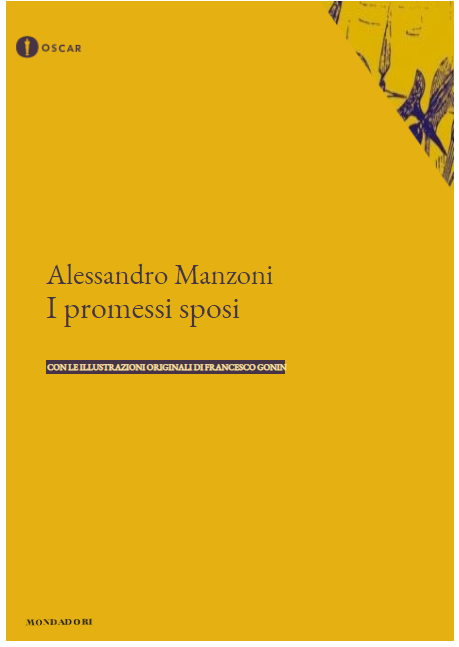
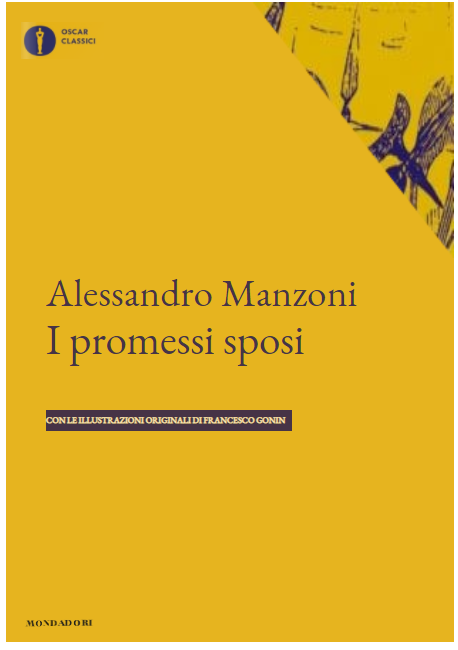
fv

diff --git a/index.html b/index.html
@@ -314,80 +314,86 @@ and (-webkit-min-device-pixel-ratio: 2) { .cover-img {width:90%;
 					<code>
 
 
- {font-family: OpenSans-Regular;
+@font-face 
+{font-family: OpenSans-Regular;
 src: url('font/OpenSans-Regular.ttf') format('truetype');}
-						
+										
 @font-face 
 {font-family: OpenSans-SemiBold;
 src: url('font/OpenSans-SemiBold.ttf') format('truetype');}
-						
-						
+										
+										
+										
 .decoration{position: absolute; 
-           content: url(img/feltrinelli-decoration.png);
-           width: auto;
-           height: 4.25%;
-           margin-top:-3.2%;
+            content: url(img/feltrinelli-decoration.png);
+            width: auto;
+            height: 4.25%;
+            margin-top:-3.2%;
            }        
-						
+									
 .author{font-family: OpenSans-Regular;
         font-size: 3.1em;
         text-transform: uppercase;
        }
-						
+										
 .title{font-family: OpenSans-SemiBold;
        font-size: 3em;
        margin-top: -10%;
       }
-					
+										
 .curator{display: none;}
 .introduction{display: none;}
 .specification{display: none;}
-						
+										
 .text-cover{position: absolute; 
-           white-space: nowrap;
-           margin-top:2%;
-           margin-left:10%;
-           color:white;
+            white-space: nowrap;
+            margin-top:2%;
+            margin-left:10%;
+            color:white;
            }
-						
+									
 .logo{content: url(img/logo-feltrinelli.png);
       position: absolute;
       background-size: 70% 70%;
       margin-top:-95%; 
-	  margin-left:6%;
-	  width:25%;
+      margin-left:6%;
+      width: 25%;
      }
-						
+										
 .cover-img{background-image: url(img/feltrinelli2.png);
            background-size: 70% 70%;
            background-repeat: no-repeat;
            background-color:c31f20;
-           background-position: center 100%;
+          background-position: center 100%;
           }
-						
-						
+										
 /* Media Query for Tablets portrait mode */ 
 @media (min-width: 768px) and (max-width: 1024px){ .logo{margin-top:-100%;
                                                          width:28%;              
                                                         }
-                                                    .decoration{margin-top:-3.4%;}
+                                                    .decoration{margin-top:-3.4%;
+                                                                }
                                                 } 
-															
-						
+																			
+										
 @media (max-width: 760px){.logo{width:30%;}
-                          .decoration{height: 4.54%;}
-                         }
-						
-																
+                          .decoration{height: 4.54%;
+                                     }                        
+                        }
+										
+																				
 @media only screen and (min-width: 1200px) and (max-width: 1600px) 
 and (-webkit-min-device-pixel-ratio: 1.5) {.decoration{margin-top:-4.4%;}
-                                           .author{font-size: 2.6em;}
+                                            .author{font-size: 2.6em;}
                                            .title{font-size:  2.5em;}                                                        
                                           }
-						
+										
 @media only screen and (min-device-width: 1024px) and (max-device-width: 1366px)
 and (-webkit-min-device-pixel-ratio: 2){.decoration{margin-top:-4.4%;}
                                        }
+										
+										
+							
 						
 
 					</code>
@@ -580,8 +586,9 @@ src: url('font/EBGaramond.ttf') format('truetype');}
 .decoration{position: absolute; 
             content: url(img/mondadori.png);
             width: auto;
-            height: 12%;
-            margin-top:2%;
+            height: 5.8%;
+            margin-top:4%;
+            margin-left:3%;
            }        
 	 
 .author{font-size: 3.7em;
@@ -620,9 +627,9 @@ src: url('font/EBGaramond.ttf') format('truetype');}
      }
 
 .cover-img{background-image: url(img/img-mondadori.png);
-           background-size: 30% 30%;
+           background-size: 45% 40%;
            background-repeat: no-repeat;
-           background-color:#E5B012;
+           background-color:e6b41f;
            background-position: right top;
           }
 	 

diff --git a/file definitivi/stylesheet-mondadori.css b/file definitivi/stylesheet-mondadori.css
@@ -8,8 +8,9 @@
 .decoration{position: absolute; 
             content: url(img/mondadori.png);
             width: auto;
-            height: 15%;
-            margin-top:2%;
+            height: 5.8%;
+            margin-top:4%;
+            margin-left:3%;
            }        
 
 .author{font-size: 3.7em;
@@ -48,9 +49,9 @@
      }
 
 .cover-img{background-image: url(img/img-mondadori.png);
-           background-size: 30% 30%;
+           background-size: 45% 40%;
            background-repeat: no-repeat;
-           background-color:#E5B012;
+           background-color:e6b41f;
            background-position: right top;
          }
 
